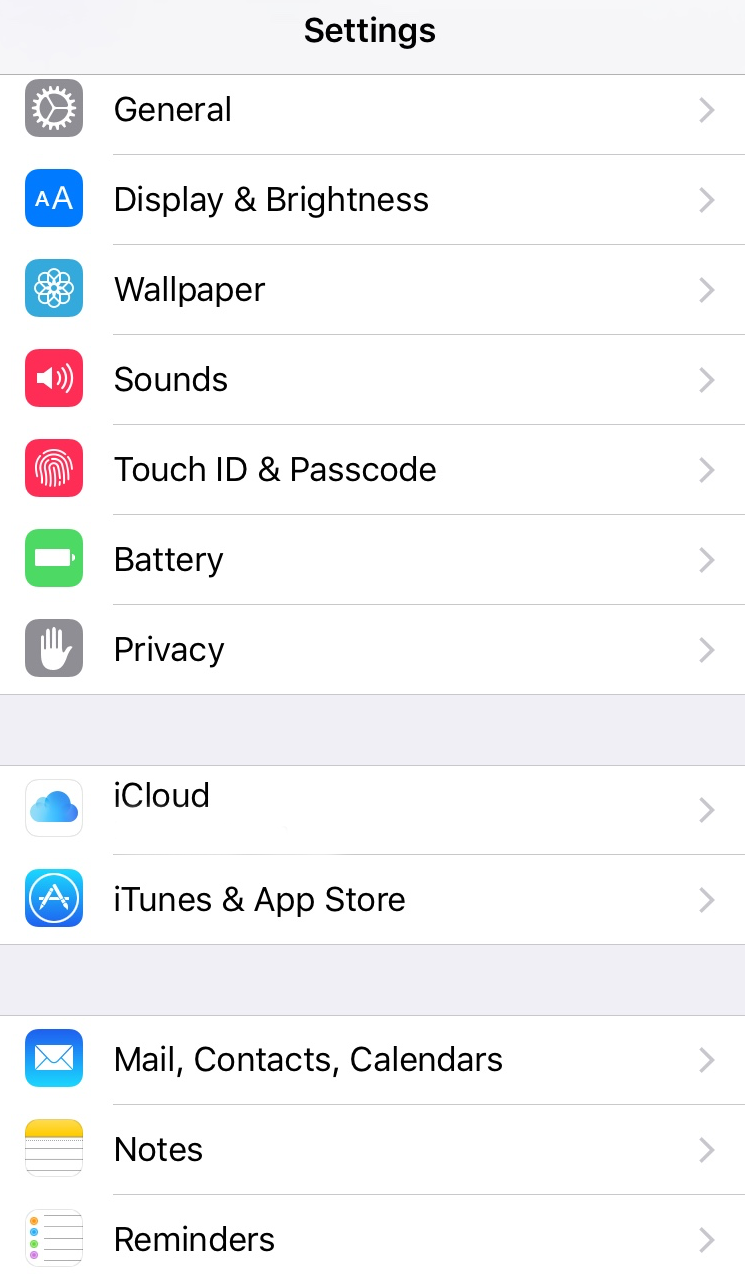
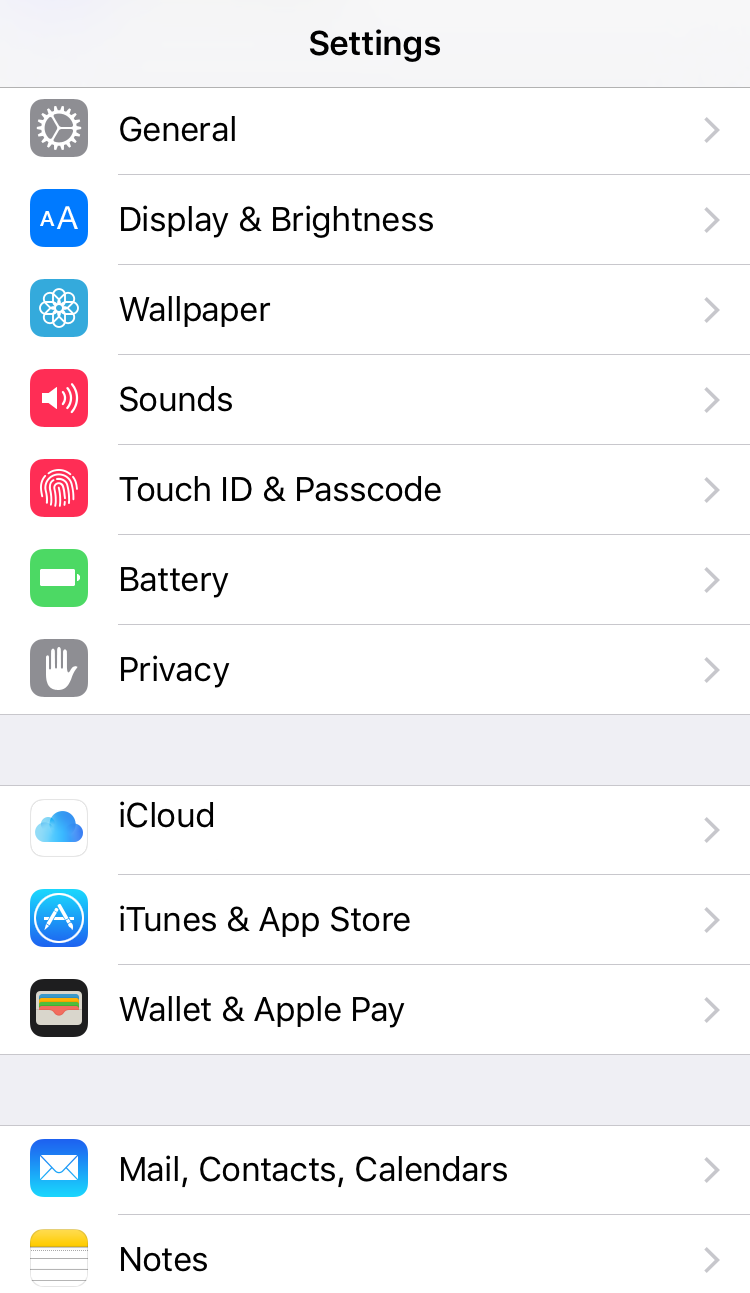
iOS 9.3.3 Update
补足一系列的设置
Wallet & Apple Pay,Music-EQ,iBooks,Podcasts,Facebook,VIMEO,Sina
Weibo,Tencent Weibo
以及许多苹果系统自带App的打开方式
本人机型iPhone6 系统9.3.3

diff --git a/iOS9SystemUrlSchemes/ViewController.m b/iOS9SystemUrlSchemes/ViewController.m
@@ -25,6 +25,7 @@
     NSAssert(!TARGET_IPHONE_SIMULATOR, @"It should run on iphone/ipad, not simulator");
     
     self.localizedStringArray = @[
+                              @"====Settings===",
                               @"Settings",
                               @"Settings-Airplane Mode",
                               @"Settings-WLAN",
@@ -61,6 +62,7 @@
                               @"Settings-iCloud",
                               @"Settings-iCloud-Storage",
                               @"Settings-iTunes&App Stores",
+                              @"Settings-Wallet & Apple Pay",
                               @"Settings-Mail,Contacts,Calendars",
                               @"Settings-Notes",
                               @"Settings-Reminders",
@@ -72,15 +74,47 @@
                               @"Settings-Compass",
                               @"Settings-Safari",
                               @"Settings-Music",
+                              @"Settings-Music-EQ",
                               @"Settings-Videos",
                               @"Settings-Photos&Camera",
+                              @"Settings-iBooks",
+                              @"Settings-Podcasts",
                               @"Settings-Game Center",
                               @"Settings-Twitter",
+                              @"Settings-Facebook",
                               @"Settings-Flickr",
+                              @"Settings-VIMEO",
+                              @"Settings-Sina Weibo",
+                              @"Settings-Tencent Weibo",
                               UIApplicationOpenSettingsURLString,//->@"app-settings:",App Authorization Setting Page(at least 1 authorize requested)
+                              @"====Apps===",
+                              @"Passbook",
+                              @"Safari",
+                              @"Podcast",
+                              @"Apple News:",
+                              @"iTunes Store",
+                              @"iBooks",
+                              @"GameCenter:",
+                              @"FindMyPhone",
+                              @"Facetime audio(disappear at Chinese version)",
+                              @"Facetime",
+                              @"iWatch:",
+                              @"App Store",//itms-apps://itunes.apple.com/app/id${ID}
+                              @"Reminders(Open then crash)",
+                              @"Notes",
+                              @"Apple Music",
+                              @"Send a Message",
+                              @"Mail Inbox",
+                              @"Send a Mail",
+                              @"Map",
+                              @"Videos",
+                              @"FindMyFriends",
+                              @"Call 0123-45-6789",
+                              @"Call 0123-45-6789 with alert",
                               ];
     
     self.settingsUrlSchemeArray = @[
+                        @"=====Settings=====",
                         @"prefs:root",//Settings 设置(equals to@"prefs:" )
                             @"prefs:root=AIRPLANE_MODE",//Settings-Airplane Mode 设置-飞行模式 Switch to airplane mode(It seems not working well on iOS9.2.1)
                             @"prefs:root=WIFI",//Settings-WLAN 设置-无线局域网
@@ -119,6 +153,7 @@
                             @"prefs:root=CASTLE",//Settings-iCloud  设置-iCloud
                                 @"prefs:root=CASTLE&path=STORAGE_AND_BACKUP",//Settings-iCloud-Storage 设置-iCloud-储存空间
                             @"prefs:root=STORE",//Settings-iTunes&App Stores  设置-iTunes Store与App Store
+                            @"prefs:root=PASSBOOK",//Settings-Wallet 设置-wallet 与 Apple Pay
                             @"prefs:root=ACCOUNT_SETTINGS",//Settings-Mail,Contacts,Calendars 设置-邮件、通讯录、日记
                             @"prefs:root=NOTES",//Settings-Notes 设置-备忘录
                             @"prefs:root=REMINDERS",//Settings-Reminders 设置-提醒事项
@@ -130,12 +165,67 @@
                             @"prefs:root=COMPASS",//Settings-Compass 设置-指南针
                             @"prefs:root=SAFARI",//Settings-Safari 设置-Safari
                             @"prefs:root=MUSIC",//Settings-Music 设置-音乐
+                                @"prefs:root=MUSIC&path=com.apple.Music:EQ",//Settings-Music-EQ 设置-音乐-EQ
                             @"prefs:root=VIDEO",//Settings-Videos 设置-视频
                             @"prefs:root=Photos",//Settings-Photos&Camera 设置-照片与相机
+                            @"prefs:root=com.apple.iBooks",//Settings-iBooks
+                            @"prefs:root=com.apple.podcasts",//Settings-播客
                             @"prefs:root=GAMECENTER",//Settings-Game Center 设置-Game Center
                             @"prefs:root=TWITTER",//Settings-Twitter 设置-Twitter
+                            @"prefs:root=FACEBOOK",//Settings-Facebook 设置-Facebook
                             @"prefs:root=FLICKR",//Settings-Flickr 设置-Flickr
+                            @"prefs:root=VIMEO",//Settings-Vimeo
+                            @"prefs:root=WEIBO",// Settings-Weibo 设置-新浪微博
+                            @"prefs:root=TENCENT_WEIBO", // Settings-Tencent Weibo 设置-腾讯微博
                             UIApplicationOpenSettingsURLString,//->@"app-settings:",App Authorization Setting Page(at least 1 authorize requested)
+                            @"=====Apps=====",
+                            @"shoebox:",//Wallet
+                            @"x-web-search:",//Safari
+                            @"pcast:",//Pod cast
+                            @"applenews:",//Apple News
+                            @"itms:",//iTunes Store With additional apis below,iTunes Store 下面是额外接口
+                            //1.iTunes Store(View Album):itms://itunes.apple.com/us/album/id${ID}?app=itunes
+                            //2.iTunes Store(View Artist):itms://itunes.apple.com/us/artist/id${ID}?app=itunes
+                            @"ibooks:",//iBooks
+                            @"gamecenter:",//Game Center
+                            @"fmip1:",//Find My Phone
+                            @"facetime-audio:(disappeared at Chinese version)",//facetime-audio,国行被阉割
+                            @"facetime:",//Facetime
+                            @"itms-watch:",//iWatch
+                            @"itms-apps:",//App Store
+                                          //open by id:itms-apps://itunes.apple.com/app/id${ID}
+                            @"x-apple-reminder:",//Reminders,提醒事项
+                            @"mobilenotes:",//Notes
+                            @"music:",//Apple Music
+                            //1.View Album:https://itunes.apple.com/us/album/id${ID}?app=music
+                            //2.View Artist:https://itunes.apple.com/us/artist/id${ID}?app=music
+                            @"sms:",//Send a Message,发短信
+                            @"message:",//Mail-Inbox,进入收件箱
+                            @"mailto:",//Mail-Send a mail,发邮件
+                            @"http://maps.apple.com/?q",//Maps,地图
+                            @"videos:",//Videos,视频
+                            @"findmyfriends:",//Find My Friends
+                            @"tel:0123-45-6789",//Call 0123-45-6789,拨打电话0123-45-6789
+                            @"telprompt:0123-45-6789",//Call 0123-45-6789 with alert,提示拨打电话0123-45-6789
+                            /* sth not correct on my phone,but may be right.
+                             @"voicememos:",
+                             @"contact:",
+                             @"iclouddriveapp:",
+                             @"mobilephone:",
+                             @"mobilephone-favorites:",
+                             @"mobilephone-recents:",
+                             @"vmshow:",
+                             @"weather:",
+                             @"weather://?index=0",
+                             @"clock-timer:",
+                        @"prefs:root=General&path=Spotlight%20Search",
+                        @"prefs:root=com.apple.itunesu",
+                        @"prefs:root=General&path=About/Diagnostics %26 Usage",
+                        @"prefs:root=General&path=About/NAME",
+                        @"prefs:root=General&path=About/Legal",
+                        @"prefs:root=General&path=MOBILE_DATA_SETTINGS_ID/INTERNET_TETHERING/WIFI_PASSWORD",
+                        @"prefs:root=MUSIC&path=EQ",
+                             */
                         ];
     //ios8?
     //@"prefs:root=General&path=STORAGE_AND_BACKUP",//设置-后台应用刷新

diff --git a/README.md b/README.md
@@ -7,63 +7,99 @@ Settings url schemes on iOS9. If you have other,please give me commits or issues
 PS:It seems not working on simulator.My device is iPhone6(iOS 9.2.1).
 
 ```objc
-  @"prefs:root",//Settings 设置(equals to@"prefs:" )
-     @"prefs:root=AIRPLANE_MODE",//Settings-Airplane Mode 设置-飞行模式 Switch to airplane mode(It seems not working well on iOS9.2.1)
-     @"prefs:root=WIFI",//Settings-WLAN 设置-无线局域网
-     @"prefs:root=Bluetooth",//Settings-Bluetooth 设置-蓝牙
-     @"prefs:root=MOBILE_DATA_SETTINGS_ID",//Settings-Cellular 设置-蜂窝移动网络
-     @"prefs:root=INTERNET_TETHERING",//Settings-Personal Hotspot 设置-个人热点
-     @"prefs:root=VPN",//Settings-VPN 设置-VPN (同样也是 设置-通用-VPN)
-     @"prefs:root=Carrier",//Settings-Carrier 设置-运营商
-     @"prefs:root=NOTIFICATIONS_ID",//Settings-Notifications 设置-通知
-     @"prefs:root=ControlCenter",//Settings-Control Center 设置-控制中心
-     @"prefs:root=DO_NOT_DISTURB",//Settings-Do Not Disturb 设置-勿扰模式
-     @"prefs:root=General",//Settings-General  设置-通用
-      @"prefs:root=General&path=About",//Settings-General-About 设置-通用-关于本机
-      @"prefs:root=General&path=SOFTWARE_UPDATE_LINK",//Settings-General-Software Update 设置-通用-软件更新
-      @"prefs:root=General&path=SIRI",//Settings-General-Siri 设置-通用-Siri
-      //@"prefs:root=General&path=Spotlight_Search",
-      //@"prefs:root=General&path=Spotlight検索",//Googled this,not working.
-      @"prefs:root=General&path=ACCESSIBILITY",//Settings-General-Accessibiilty 设置-通用-辅助功能
-      @"prefs:root=General&path=AUTO_CONTENT_DOWNLOAD",//Settings-General-Backgound App Refresh 设置-通用-后台应用刷新
-      @"prefs:root=General&path=AUTOLOCK",//Settings-General-(Auto-Lock) 设置-通用-自动锁定
-      @"prefs:root=General&path=DATE_AND_TIME",//Settings-General-Date&Time 设置-通用-日期与时间
-      @"prefs:root=General&path=Keyboard",//Settings-General-Keyboards 设置-通用-键盘
-        @"prefs:root=General&path=Keyboard/KEYBOARDS",//Settings-General-Keyboards-Keyboards 设置-通用-键盘-键盘
-      @"prefs:root=General&path=INTERNATIONAL",//Settings-General-Language&Region 设置-通用-语言与地区
-      @"prefs:root=General&path=VPN",//Settings-General-VPN 设置-通用-VPN
-      @"prefs:root=General&path=ManagedConfigurationList",//Settings-General-Profiles 设置-通用-描述文件
-      @"prefs:root=General&path=Reset",//Settings-General-Reset 设置-通用-还原
-     @"prefs:root=DISPLAY",//Settings-Display&Brightness 设置-显示和亮度
-     @"prefs:root=Wallpaper",//Settings-Wallpaper  设置-墙纸
-     @"prefs:root=Sounds",//Settings-Sounds  设置-声音
-      @"prefs:root=Sounds&path=Ringtone",//Settings-Sounds-Ringtone  设置-声音-电话铃声
-     @"prefs:root=TOUCHID_PASSCODE",//Settings-Touch ID&Passcode  设置-Touch ID与密码
-     @"prefs:root=BATTERY_USAGE",//Settings-Battery 设置-电池
-     @"prefs:root=Privacy",//Settings-Privacy 设置-隐私
-      @"prefs:root=LOCATION_SERVICES",//Settings-Privacy-Location Services 设置-隐私-定位服务
-     @"prefs:root=CASTLE",//Settings-iCloud  设置-iCloud
-      @"prefs:root=CASTLE&path=STORAGE_AND_BACKUP",//Settings-iCloud-Storage 设置-iCloud-储存空间
-     @"prefs:root=STORE",//Settings-iTunes&App Stores  设置-iTunes Store与App Store
-     @"prefs:root=ACCOUNT_SETTINGS",//Settings-Mail,Contacts,Calendars 设置-邮件、通讯录、日记
-     @"prefs:root=NOTES",//Settings-Notes 设置-备忘录
-     @"prefs:root=REMINDERS",//Settings-Reminders 设置-提醒事项
-     @"prefs:root=Phone",//Settings-Phone  设置-电话
-      @"prefs:root=Phone&path=CallerID",//Settings-Phone-Show My Caller ID 设置-电话-在被叫方显示本机号码
-     @"prefs:root=MESSAGES",//Settings-Messages 设置-信息
-     @"prefs:root=FACETIME",//Settings-FaceTime 设置-Facetime
-     @"prefs:root=MAPS",//Settings-Maps 设置-地图
-     @"prefs:root=COMPASS",//Settings-Compass 设置-指南针
-     @"prefs:root=SAFARI",//Settings-Safari 设置-Safari
-     @"prefs:root=MUSIC",//Settings-Music 设置-音乐
-     @"prefs:root=VIDEO",//Settings-Videos 设置-视频
-     @"prefs:root=Photos",//Settings-Photos&Camera 设置-照片与相机
-     @"prefs:root=GAMECENTER",//Settings-Game Center 设置-Game Center
-     @"prefs:root=TWITTER",//Settings-Twitter 设置-Twitter
-     @"prefs:root=FLICKR",//Settings-Flickr 设置-Flickr
-     @"prefs:root=WEIBO",// Settings-Weibo 设置-新浪微博
-     @"prefs:root=TENCENT_WEIBO", // Settings-Tencent Weibo 设置-腾讯微博
-     UIApplicationOpenSettingsURLString,//->@"app-settings:",App Authorization Setting Page(at least 1 authorize requested)
+@"=====Settings=====",
+                        @"prefs:root",//Settings 设置(equals to@"prefs:" )
+                            @"prefs:root=AIRPLANE_MODE",//Settings-Airplane Mode 设置-飞行模式 Switch to airplane mode(It seems not working well on iOS9.2.1)
+                            @"prefs:root=WIFI",//Settings-WLAN 设置-无线局域网
+                            @"prefs:root=Bluetooth",//Settings-Bluetooth 设置-蓝牙
+                            @"prefs:root=MOBILE_DATA_SETTINGS_ID",//Settings-Cellular 设置-蜂窝移动网络
+                            @"prefs:root=INTERNET_TETHERING",//Settings-Personal Hotspot 设置-个人热点
+                            @"prefs:root=VPN",//Settings-VPN 设置-VPN (同样也是 设置-通用-VPN)
+                            @"prefs:root=Carrier",//Settings-Carrier 设置-运营商
+                            @"prefs:root=NOTIFICATIONS_ID",//Settings-Notifications 设置-通知
+                            @"prefs:root=ControlCenter",//Settings-Control Center 设置-控制中心
+                            @"prefs:root=DO_NOT_DISTURB",//Settings-Do Not Disturb 设置-勿扰模式
+                            @"prefs:root=General",//Settings-General  设置-通用
+                                @"prefs:root=General&path=About",//Settings-General-About 设置-通用-关于本机
+                                @"prefs:root=General&path=SOFTWARE_UPDATE_LINK",//Settings-General-Software Update 设置-通用-软件更新
+                                @"prefs:root=General&path=SIRI",//Settings-General-Siri 设置-通用-Siri
+                                //@"prefs:root=General&path=Spotlight_Search",
+                                //@"prefs:root=General&path=Spotlight検索",//Googled this,not working.
+                                @"prefs:root=General&path=ACCESSIBILITY",//Settings-General-Accessibiilty 设置-通用-辅助功能
+                                @"prefs:root=General&path=AUTO_CONTENT_DOWNLOAD",//Settings-General-Backgound App Refresh 设置-通用-后台应用刷新
+                                @"prefs:root=General&path=AUTOLOCK",//Settings-General-(Auto-Lock) 设置-通用-自动锁定
+                                @"prefs:root=General&path=DATE_AND_TIME",//Settings-General-Date&Time 设置-通用-日期与时间
+                                @"prefs:root=General&path=Keyboard",//Settings-General-Keyboards 设置-通用-键盘
+                                    @"prefs:root=General&path=Keyboard/KEYBOARDS",//Settings-General-Keyboards-Keyboards 设置-通用-键盘-键盘
+                                @"prefs:root=General&path=INTERNATIONAL",//Settings-General-Language&Region 设置-通用-语言与地区
+                                @"prefs:root=General&path=VPN",//Settings-General-VPN 设置-通用-VPN
+                                @"prefs:root=General&path=ManagedConfigurationList",//Settings-General-Profiles 设置-通用-描述文件
+                                @"prefs:root=General&path=Reset",//Settings-General-Reset 设置-通用-还原
+                            @"prefs:root=DISPLAY",//Settings-Display&Brightness 设置-显示和亮度
+                            @"prefs:root=Wallpaper",//Settings-Wallpaper  设置-墙纸
+                            @"prefs:root=Sounds",//Settings-Sounds  设置-声音
+                                @"prefs:root=Sounds&path=Ringtone",//Settings-Sounds-Ringtone  设置-声音-电话铃声
+                            @"prefs:root=TOUCHID_PASSCODE",//Settings-Touch ID&Passcode  设置-Touch ID与密码
+                            @"prefs:root=BATTERY_USAGE",//Settings-Battery 设置-电池
+                            @"prefs:root=Privacy",//Settings-Privacy 设置-隐私
+                                @"prefs:root=LOCATION_SERVICES",//Settings-Privacy-Location Services 设置-隐私-定位服务
+                            @"prefs:root=CASTLE",//Settings-iCloud  设置-iCloud
+                                @"prefs:root=CASTLE&path=STORAGE_AND_BACKUP",//Settings-iCloud-Storage 设置-iCloud-储存空间
+                            @"prefs:root=STORE",//Settings-iTunes&App Stores  设置-iTunes Store与App Store
+                            @"prefs:root=PASSBOOK",//Settings-Wallet 设置-wallet 与 Apple Pay
+                            @"prefs:root=ACCOUNT_SETTINGS",//Settings-Mail,Contacts,Calendars 设置-邮件、通讯录、日记
+                            @"prefs:root=NOTES",//Settings-Notes 设置-备忘录
+                            @"prefs:root=REMINDERS",//Settings-Reminders 设置-提醒事项
+                            @"prefs:root=Phone",//Settings-Phone  设置-电话
+                                @"prefs:root=Phone&path=CallerID",//Settings-Phone-Show My Caller ID 设置-电话-在被叫方显示本机号码
+                            @"prefs:root=MESSAGES",//Settings-Messages 设置-信息
+                            @"prefs:root=FACETIME",//Settings-FaceTime 设置-Facetime
+                            @"prefs:root=MAPS",//Settings-Maps 设置-地图
+                            @"prefs:root=COMPASS",//Settings-Compass 设置-指南针
+                            @"prefs:root=SAFARI",//Settings-Safari 设置-Safari
+                            @"prefs:root=MUSIC",//Settings-Music 设置-音乐
+                                @"prefs:root=MUSIC&path=com.apple.Music:EQ",//Settings-Music-EQ 设置-音乐-EQ
+                            @"prefs:root=VIDEO",//Settings-Videos 设置-视频
+                            @"prefs:root=Photos",//Settings-Photos&Camera 设置-照片与相机
+                            @"prefs:root=com.apple.iBooks",//Settings-iBooks
+                            @"prefs:root=com.apple.podcasts",//Settings-播客
+                            @"prefs:root=GAMECENTER",//Settings-Game Center 设置-Game Center
+                            @"prefs:root=TWITTER",//Settings-Twitter 设置-Twitter
+                            @"prefs:root=FACEBOOK",//Settings-Facebook 设置-Facebook
+                            @"prefs:root=FLICKR",//Settings-Flickr 设置-Flickr
+                            @"prefs:root=VIMEO",//Settings-Vimeo
+                            @"prefs:root=WEIBO",// Settings-Weibo 设置-新浪微博
+                            @"prefs:root=TENCENT_WEIBO", // Settings-Tencent Weibo 设置-腾讯微博
+                            UIApplicationOpenSettingsURLString,//->@"app-settings:",App Authorization Setting Page(at least 1 authorize requested)
+                            @"=====Apps=====",
+                            @"shoebox:",//Wallet
+                            @"x-web-search:",//Safari
+                            @"pcast:",//Pod cast
+                            @"applenews:",//Apple News
+                            @"itms:",//iTunes Store With additional apis below,iTunes Store 下面是额外接口
+                            //1.iTunes Store(View Album):itms://itunes.apple.com/us/album/id${ID}?app=itunes
+                            //2.iTunes Store(View Artist):itms://itunes.apple.com/us/artist/id${ID}?app=itunes
+                            @"ibooks:",//iBooks
+                            @"gamecenter:",//Game Center
+                            @"fmip1:",//Find My Phone
+                            @"facetime-audio:(disappeared at Chinese version)",//facetime-audio,国行被阉割
+                            @"facetime:",//Facetime
+                            @"itms-watch:",//iWatch
+                            @"itms-apps:",//App Store
+                                          //open by id:itms-apps://itunes.apple.com/app/id${ID}
+                            @"x-apple-reminder:",//Reminders,提醒事项
+                            @"mobilenotes:",//Notes
+                            @"music:",//Apple Music
+                            //1.View Album:https://itunes.apple.com/us/album/id${ID}?app=music
+                            //2.View Artist:https://itunes.apple.com/us/artist/id${ID}?app=music
+                            @"sms:",//Send a Message,发短信
+                            @"message:",//Mail-Inbox,进入收件箱
+                            @"mailto:",//Mail-Send a mail,发邮件
+                            @"http://maps.apple.com/?q",//Maps,地图
+                            @"videos:",//Videos,视频
+                            @"findmyfriends:",//Find My Friends
+                            @"tel:0123-45-6789",//Call 0123-45-6789,拨打电话0123-45-6789
+                            @"telprompt:0123-45-6789",//Call 0123-45-6789 with alert,提示拨打电话0123-45-6789
 ```
 
 Marking "X" means that I can't find ways to open.
@@ -81,3 +117,5 @@ Marking "X" means that I can't find ways to open.
 ![](https://raw.githubusercontent.com/hstdt/iOS9SystemUrlSchemes/master/Images/General2.PNG)
 
 ![](https://raw.githubusercontent.com/hstdt/iOS9SystemUrlSchemes/master/Images/AppAccess.PNG)
+
+
